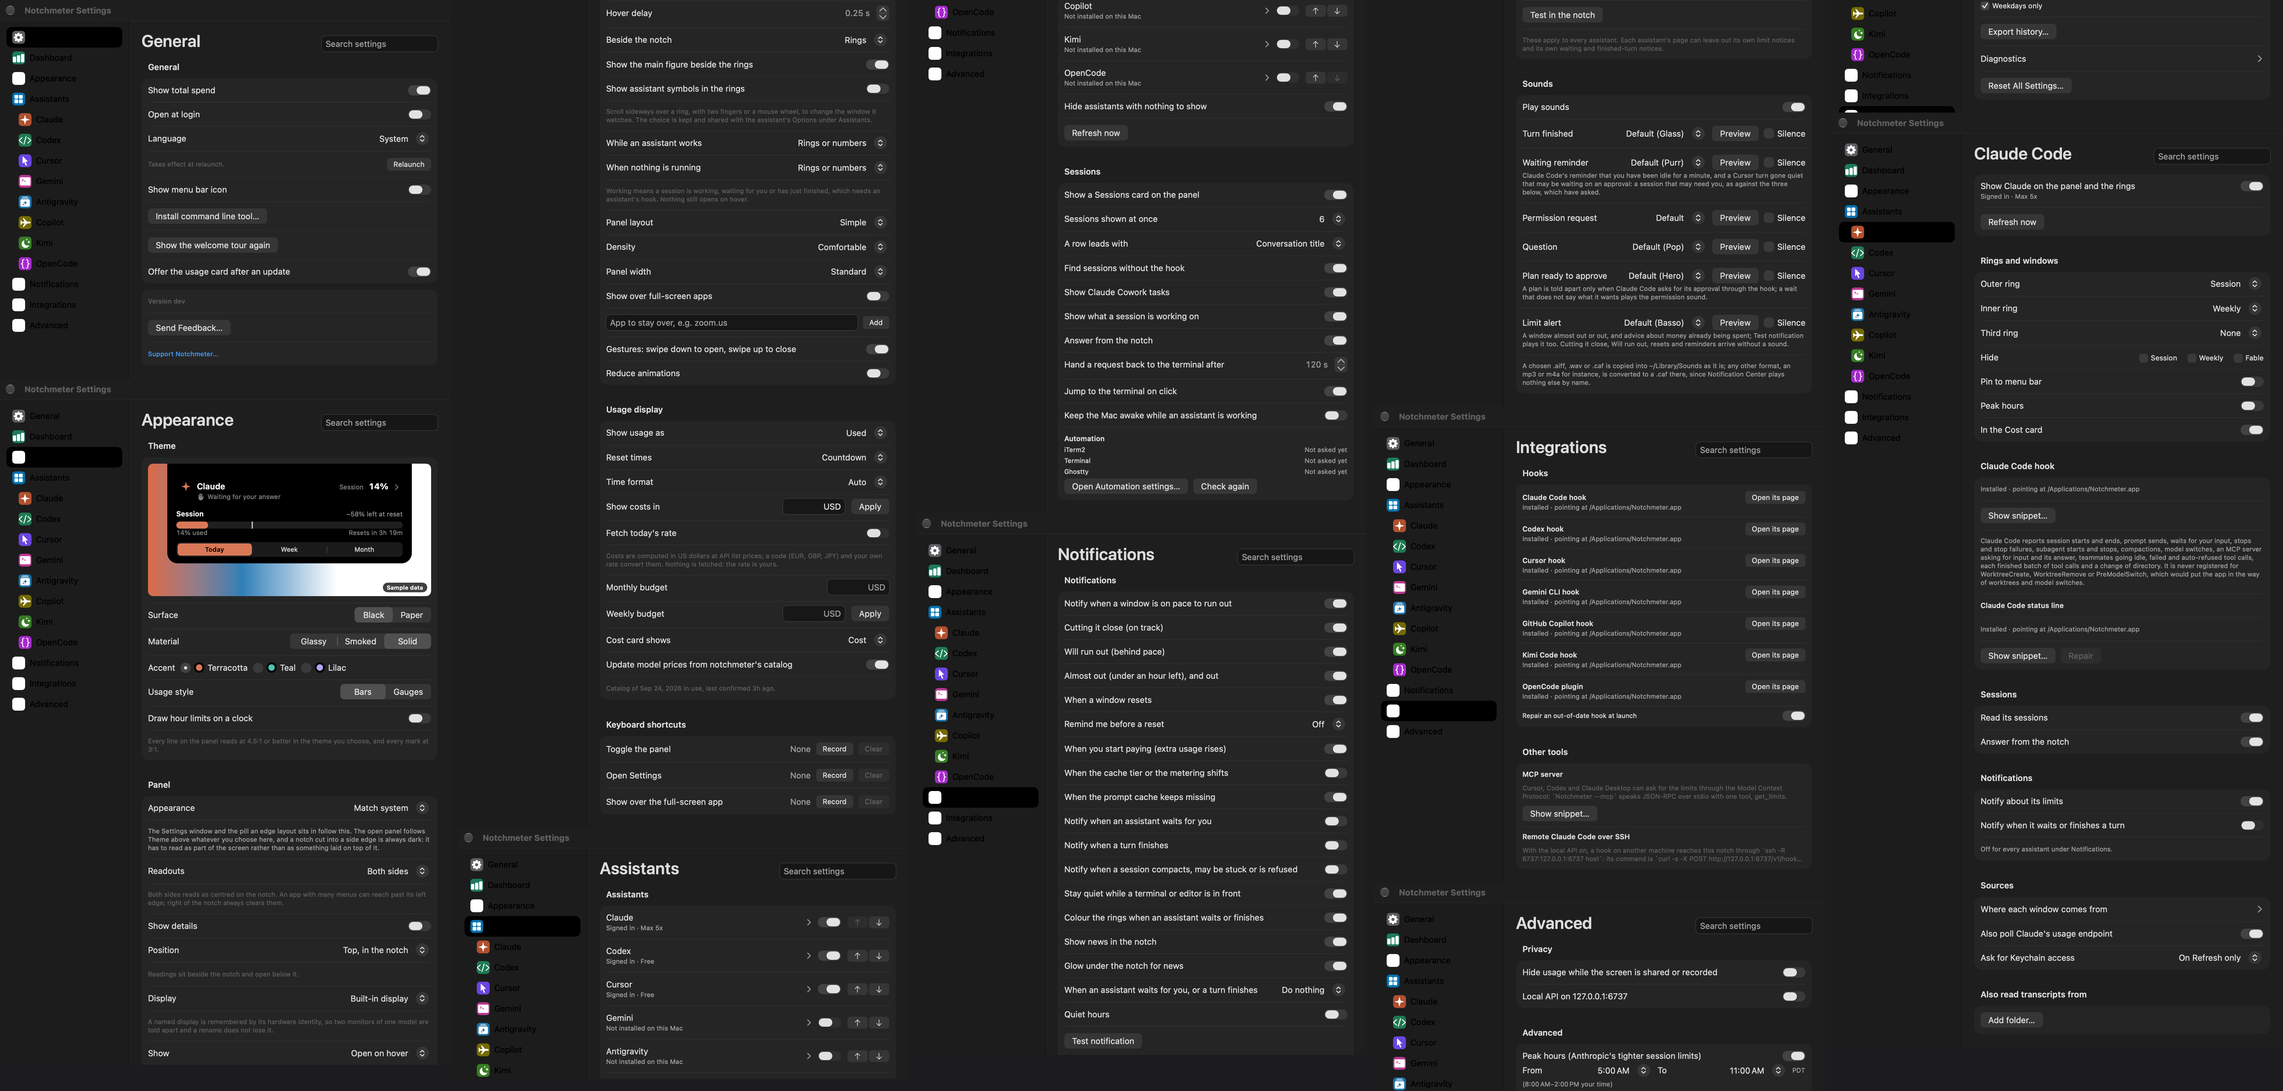
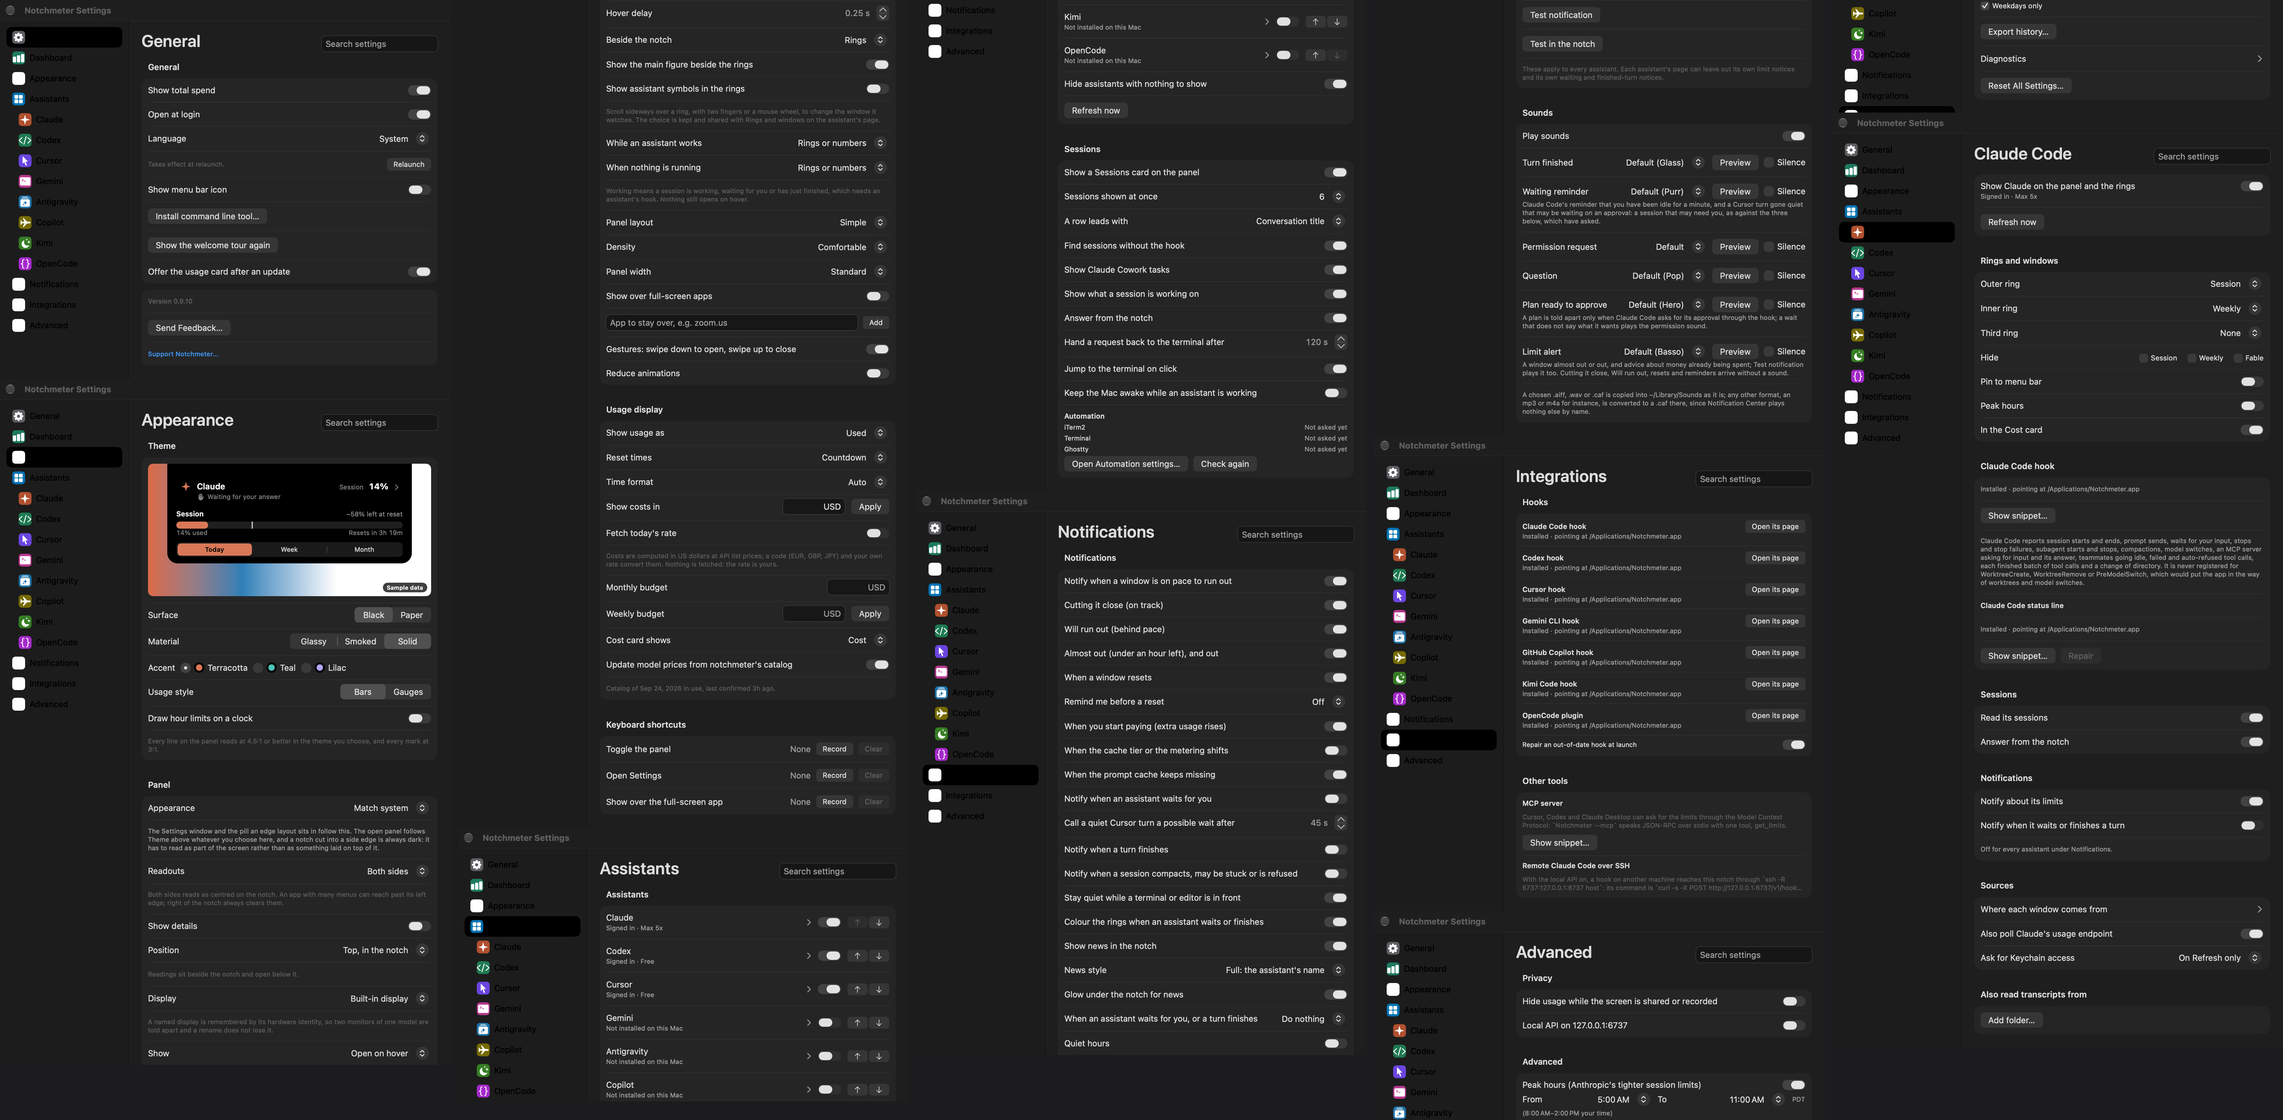
Site for 0.9.9 and 0.9.10: the news across the notch, in a loop, and the quiet idle login (#113)
The site showed none of 0.9.9 or 0.9.10. The home page gets a section on the
news across the notch, with Full and Compact and the symbols in the middle of
the rings, around a new loop: --render-assets now draws notch-news.gif, the
strip with the symbols in their rings, a permission prompt's news across the
notch with its blue bloom, the strip again, and a finish's with the white one
(28 frames, 9.2 s, 404 KB; each still is one long frame and only the
crossfades take many). site-assets.sh copies it, and the notifications guide
shows it beside its news item. The Claude tracker page says what the card does
when the login has gone idle in that Mac account.

Every other picture on the site came out of a fresh --render-assets byte for
byte as it was, so none changed; settings.png (the README's) is taller by the
News style picker. The sitemap dates the three pages that changed, and the
site README no longer says the download serves v0.1.0.

Claude-Session: https://claude.ai/code/session_01BmUk8Pcie3UzytbtYBUh3s

diff --git a/Sources/Notchmeter/AssetRenderer.swift b/Sources/Notchmeter/AssetRenderer.swift
@@ -51,6 +51,7 @@ enum AssetRenderer {
             try write(signalRings(waiting: stage, finished: Stage(store: finished, prefs: finishedPrefs, actions: actions)),
                       png: directory.appendingPathComponent("signal-rings.png"))
             try write(notchNews(now: now, actions: actions), png: review.appendingPathComponent("notch-news.png"))
+            try write(notchNewsLoop(now: now, actions: actions), gif: directory.appendingPathComponent("notch-news.gif"))
             // Claude Cowork's tasks among the hook's sessions, and the notch announcing one's finish: drawn from a
             // store of their own (DemoFixtures.coworkTasks), so the README's pictures stay as they were.
             let (cowork, coworkPrefs) = DemoFixtures.store(now: now, moment: .working, cowork: true)
@@ -771,6 +772,46 @@ enum AssetRenderer {
                 draw(image, in: CGRect(x: 0, y: CGFloat(index) * (row.height + gap), width: row.width, height: row.height), alpha: 1, into: ctx)
             }
         }
+    }
+
+    /// The collapsed notch announcing news, as the loop the site shows (`notch-news.gif`): the strip with the
+    /// assistants' symbols in their rings, a permission prompt's news across the notch with the blue bloom under it,
+    /// the strip again, and a long turn's finish with the white one. Each still is one frame held for its own time and
+    /// only the crossfades between them take many, so the file stays small. The bloom is drawn at its brightest
+    /// throughout, the still `--render-assets` draws of it, where the app fades it after three seconds.
+    @MainActor
+    static func notchNewsLoop(now: Date, actions: NotchActions) throws -> [Frame] {
+        func stage(_ moment: DemoFixtures.Moment, news: Bool) throws -> Stage {
+            let (store, prefs) = DemoFixtures.store(now: now, moment: moment)
+            prefs.ringSymbols = true
+            if news { store.seed(news: DemoFixtures.news(in: store, moment: moment, now: now)) }
+            return try Stage(store: store, prefs: prefs, actions: actions, drawsGlow: news)
+        }
+        let stills = [try stage(.working, news: false), try stage(.waiting, news: true),
+                      try stage(.working, news: false), try stage(.justFinished, news: true)]
+        let holds: [Double] = [1.4, 2.8, 1.2, 2.8]
+        let row = CGSize(width: (stills.map(\.compactExtent).max() ?? 0) + 2 * NotchGlowView.spread + 80,
+                         height: notch.height + NotchGlowView.depth + 8)
+        let images = try stills.map { stage in
+            let image = try stage.image(.compact, canvas: row, pixelScale: scale)
+            return try bitmap(row, pixelScale: scale) { ctx in
+                wallpaper(in: ctx, canvas: row)
+                draw(image, in: CGRect(origin: .zero, size: row), alpha: 1, into: ctx)
+            }
+        }
+        var frames: [Frame] = []
+        for (index, image) in images.enumerated() {
+            frames.append(Frame(image: image, delay: holds[index]))
+            let next = images[(index + 1) % images.count]
+            for step in 1...6 {
+                let mix = Double(step) / 7
+                frames.append(Frame(image: try bitmap(row, pixelScale: scale) { ctx in
+                    draw(image, in: CGRect(origin: .zero, size: row), alpha: 1, into: ctx)
+                    draw(next, in: CGRect(origin: .zero, size: row), alpha: mix, into: ctx)
+                }, delay: 0.04))
+            }
+        }
+        return frames
     }
 
     /// The collapsed notch announcing a Claude Cowork task's finish (DemoFixtures.coworkNews): the task's title

diff --git a/site/claude-code-usage-tracker/index.html b/site/claude-code-usage-tracker/index.html
@@ -182,7 +182,7 @@
       </table>
     </div>
     <div class="lp-prose">
-      <p>The login comes from the Keychain item <code>Claude Code-credentials</code> (read with prompts off, then through <code>/usr/bin/security</code>), else <code>~/.claude/.credentials.json</code>, else <code>CLAUDE_CODE_OAUTH_TOKEN</code>. A setup on an API key, Bedrock or Vertex has no plan window, and the card says so rather than drawing an empty bar. The token goes only to <code>api.anthropic.com</code>, as <code>Authorization: Bearer</code> with <code>User-Agent: Notchmeter/&lt;version&gt;</code>, in the one read-only request above; it is never refreshed, stored or forwarded.</p>
+      <p>The login comes from the Keychain item <code>Claude Code-credentials</code> (read with prompts off, then through <code>/usr/bin/security</code>), else <code>~/.claude/.credentials.json</code>, else <code>CLAUDE_CODE_OAUTH_TOKEN</code>. A setup on an API key, Bedrock or Vertex has no plan window, and the card says so rather than drawing an empty bar. The token goes only to <code>api.anthropic.com</code>, as <code>Authorization: Bearer</code> with <code>User-Agent: Notchmeter/&lt;version&gt;</code>, in the one read-only request above; it is never refreshed, stored or forwarded. Because only Claude Code renews it, a Mac account where Claude Code has not run for a while holds a token past its expiry; the card then keeps its last reading under one grey line, <em>Not updated since</em> and the time, until <code>claude</code> runs there again.</p>
       <p>The usage endpoint is undocumented: the channel Anthropic documents for these figures is the status line. With <em>Also poll Claude's usage endpoint</em> off (Settings › Assistants › Claude Code) the status line is the only source and no request goes to Anthropic at all. Anthropic's rate-limit headers arrive only on inference requests, which Notchmeter never makes, so it does not read them; the reasoning is in <a href="https://github.com/Amir-Hackett/notchmeter/blob/main/docs/accuracy.md#why-there-is-no-header-fallback">Why there is no header fallback</a>, and the terms question is answered plainly in <a href="https://github.com/Amir-Hackett/notchmeter/blob/main/docs/privacy.md">docs/privacy.md</a>.</p>
     </div>
   </div>

diff --git a/site/index.html b/site/index.html
@@ -223,6 +223,17 @@
 
 <section>
   <div class="wrap">
+    <h2>The news, across the notch</h2>
+    <p>For four seconds when a session starts waiting for you or finishes a turn, the strip says so across the notch: the assistant and what happened on the left, <em>Claude Code needs approval</em> or <em>Claude Code finished</em>, and the session on the right, with a glow under the notch, blue for a wait and white for a finish. Click it and the panel opens on that session. Set <em>News style</em> to <em>Compact</em> and the left keeps only the symbols, giving the line to the session; a long name ends in an ellipsis rather than running off the edge.</p>
+    <figure class="shot">
+      <img src="img/notch-news.gif" alt="The strip at the notch in a loop: the assistants' rings with each one's symbol in the middle; then Claude Code needs approval across the notch, the session's title on the right and a blue glow under it; the rings again; then Claude Code finished, with a white glow.">
+    </figure>
+    <p>Turn on <em>Show assistant symbols in the rings</em> and each assistant's own mark sits in the middle of its rings, however many it shows, for when the colours are hard to tell apart.</p>
+  </div>
+</section>
+
+<section>
+  <div class="wrap">
     <div class="split">
       <div>
         <h2>And you answer it there</h2>

diff --git a/site/guides/claude-code-notifications-not-working.html b/site/guides/claude-code-notifications-not-working.html
@@ -86,6 +86,10 @@
       <figcaption>Waiting, above, and just finished, below. The dot and the tick carry the state without the colour.</figcaption>
     </figure>
     <figure>
+      <div class="shot"><img src="../img/notch-news.gif" width="1866" height="168" alt="The strip at the notch in a loop: the rings; then Claude Code needs approval across the notch with the session's title and a blue glow; the rings again; then Claude Code finished with a white glow." loading="lazy"></div>
+      <figcaption>The news across the notch: a wait, then a finish, each with the session it came from.</figcaption>
+    </figure>
+    <figure>
       <div class="shot"><img src="../img/permission.png" width="1280" height="700" alt="The panel open on a permission request alone: the Bash and project chips, the command, its excerpt, and Deny and Allow with their keyboard shortcuts." loading="lazy"></div>
       <figcaption>A permission request, answered from the notch. Escape, or <em>Answer in the terminal</em>, hands it straight back.</figcaption>
     </figure>

diff --git a/docs/features.md b/docs/features.md
@@ -42,7 +42,7 @@ With the optional [hooks](hooks.md) — one each for Claude Code, Codex, Cursor,
 
 **Claude Cowork's tasks** (since 0.9.0) sit on the same card with no hook and no setup. Cowork runs inside the Claude app and has no hook, so while the Claude app is running Notchmeter reads the files it keeps for each task, read-only, every five seconds (ten on battery, fifteen while no task is listed, thirty while the screen is locked): the task's title, the folder you gave it (its row's project and group), and the task's own log. A row carries a **Cowork** chip, whose tooltip says it was read from the task's log and can never show a wait, and takes the Claude colour, because a Cowork task spends the Claude plan. It is working from its prompt until the log's own end-of-turn line, and that line is its finish: the green tick, the Claude ring's finished mark, the *Finished* news beside the notch and the *Notify when a turn finishes* banner ("Claude Cowork finished a 7m turn in Support") all come from it, with the turn's length as the log states it. A task whose log has been quiet for four minutes, or that has stopped to ask you something in Claude, shows as idle, and so does a task just made, until its first prompt is written; it is never shown as waiting for you, and a turn that went quiet is never claimed as finished. Clicking a row brings the Claude app forward (Notchmeter cannot open one task in it), *Clear* sets idle tasks aside until they write again, a task leaves the list thirty minutes after its log last moved or when it is archived, and every Cowork row goes the moment the Claude app quits. The title is held only while *Show what a session is working on* is on (switching it off drops it everywhere at once) and is hidden while the screen is shared, like a prompt's first line. A working task holds *Keep the Mac awake while an assistant is working* too. Settings › Assistants › Sessions › *Show Claude Cowork tasks* (on by default) turns all of it off; the Cost card's Cowork spend, which comes from the same logs under the project "Cowork", is unchanged either way. The rule, its source and the measurements behind its four minutes are in [accuracy.md](accuracy.md#claude-coworks-tasks). `--render-assets` draws a panel with two Cowork tasks, one working and one just finished, in `cowork.png`, and the notch announcing the finish in `cowork-news.png`.
 
-**News in the collapsed notch.** With a hook installed, the strip beside the notch announces a session that starts waiting for you or finishes a turn longer than twenty seconds, and since 0.9.0 one of Claude Code's that starts compacting its context by itself, may be stuck, or is refused a tool by auto mode for the first time in a turn: for four seconds the strip says so across the notch, its readouts giving way on both sides. Left of the notch are the assistant's symbol and the reason's, and in *Full* the assistant and what happened in words (*Claude Code finished*, *needs approval*, *has a question*, *needs input* for an MCP server, *is waiting*, *is compacting*, *may be stuck*, *was blocked*); right of it is the session's title, or its folder when it has none. *Compact* keeps the symbols alone on the left and leaves the line to the session. Since 0.9.9 the line covers the app's menus beside the notch while it shows, and it stops at the edge of Notchmeter's window, the middle half of the screen, where a long name ends in an ellipsis; 0.9.8 kept the words to the room the menus left, named the project on one side and the reason on the other, and could let a long name run past that edge, where it was cut off square ("Finished" read "Fini"). The words are never drawn under the notch itself. Clicking the words, or resting the pointer on them under *On hover*, opens the panel on that session: on its request card when the hook is holding one, otherwise on the session's own card with the link to the whole panel. The same session for the same reason is not announced again inside thirty seconds, and a wait on screen is not replaced by a finish or by trouble. Under it, a glow spills from the notch's edge: a blue bloom for a wait, a white one for a finish or trouble, fading after three seconds, with a faint blue kept under the notch while any session still waits. The glow is drawn in its own window that ignores the mouse, so it never takes a click. While the screen is shared there is no session on the right: the line is all on the left, and *Compact* gives it the reason's own word (*Finished*). VoiceOver hears the news as an announcement, and the words are a button it can press. Under Reduce Motion the words crossfade in place of the strip's slide and the glow is a still tint. Settings → Notifications has *Show news in the notch*, with *News style* (*Full* or *Compact*, *Full* by default) under it while it is on, and *Glow under the notch for news*, both on by default; the top layout on a notched Mac draws them, and the edge layouts keep their readouts. `--render-assets` draws a wait and a finish in *Full*, the finish in *Compact* and the plain strip in `review/notch-news.png`.
+**News in the collapsed notch.** With a hook installed, the strip beside the notch announces a session that starts waiting for you or finishes a turn longer than twenty seconds, and since 0.9.0 one of Claude Code's that starts compacting its context by itself, may be stuck, or is refused a tool by auto mode for the first time in a turn: for four seconds the strip says so across the notch, its readouts giving way on both sides. Left of the notch are the assistant's symbol and the reason's, and in *Full* the assistant and what happened in words (*Claude Code finished*, *needs approval*, *has a question*, *needs input* for an MCP server, *is waiting*, *is compacting*, *may be stuck*, *was blocked*); right of it is the session's title, or its folder when it has none. *Compact* keeps the symbols alone on the left and leaves the line to the session. Since 0.9.9 the line covers the app's menus beside the notch while it shows, and it stops at the edge of Notchmeter's window, the middle half of the screen, where a long name ends in an ellipsis; 0.9.8 kept the words to the room the menus left, named the project on one side and the reason on the other, and could let a long name run past that edge, where it was cut off square ("Finished" read "Fini"). The words are never drawn under the notch itself. Clicking the words, or resting the pointer on them under *On hover*, opens the panel on that session: on its request card when the hook is holding one, otherwise on the session's own card with the link to the whole panel. The same session for the same reason is not announced again inside thirty seconds, and a wait on screen is not replaced by a finish or by trouble. Under it, a glow spills from the notch's edge: a blue bloom for a wait, a white one for a finish or trouble, fading after three seconds, with a faint blue kept under the notch while any session still waits. The glow is drawn in its own window that ignores the mouse, so it never takes a click. While the screen is shared there is no session on the right: the line is all on the left, and *Compact* gives it the reason's own word (*Finished*). VoiceOver hears the news as an announcement, and the words are a button it can press. Under Reduce Motion the words crossfade in place of the strip's slide and the glow is a still tint. Settings → Notifications has *Show news in the notch*, with *News style* (*Full* or *Compact*, *Full* by default) under it while it is on, and *Glow under the notch for news*, both on by default; the top layout on a notched Mac draws them, and the edge layouts keep their readouts. `--render-assets` draws a wait and a finish in *Full*, the finish in *Compact* and the plain strip in `review/notch-news.png`, and the loop the site shows, the strip, a wait's news and a finish's, as `notch-news.gif`.
 
 **Assistant symbols in the rings.** *Show assistant symbols in the rings* (Settings → Appearance, off by default) draws each assistant's own symbol, the one on its card, in white in the middle of its rings, however many there are. Since 0.9.10 the rings make room for it: with the setting on they are drawn in a 22 pt box rather than 18, with thinner inner rings, so two or three still leave a clear disc in the middle (until then the symbol went beside a nest of two or three, which read as inconsistent next to one inside a single ring). The symbol is sized so its whole shape fits that disc with a point and a half to spare and centred by its visible shape, not its box, and it never sits over a ring, so no arc's end or pace cap is hidden. A readout with the symbol is 22 pt wide whatever its ring count. It is for when the assistants' colours are hard to tell apart.
 

diff --git a/site/README.md b/site/README.md
@@ -69,7 +69,7 @@ scripts/site-assets.sh
 ## What the pages promise
 
 The download button links at the `Notchmeter.dmg` of the latest GitHub release, so it serves whichever release is
-current (v0.1.0 since 2026-09-05), and the Homebrew line names the tap. The figures on the pages (energy, resident
+current (0.9.10 as of 2026-10-02), and the Homebrew line names the tap. The figures on the pages (energy, resident
 size, poll cadence, what is and is not read) are the README's; change them there first and here second, because a
 number on this page that the README cannot back is the one defect the README's own energy section exists to rule out.
 
